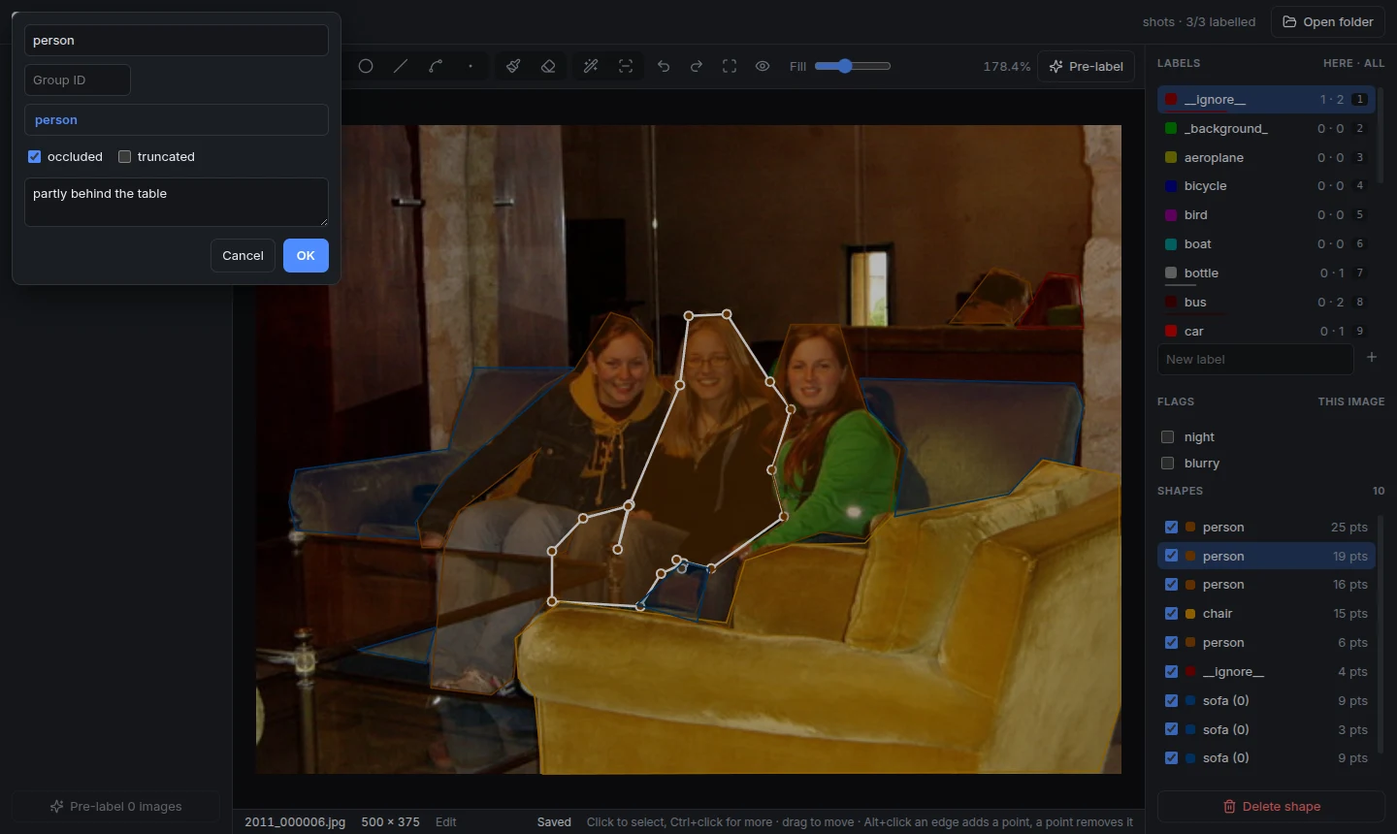
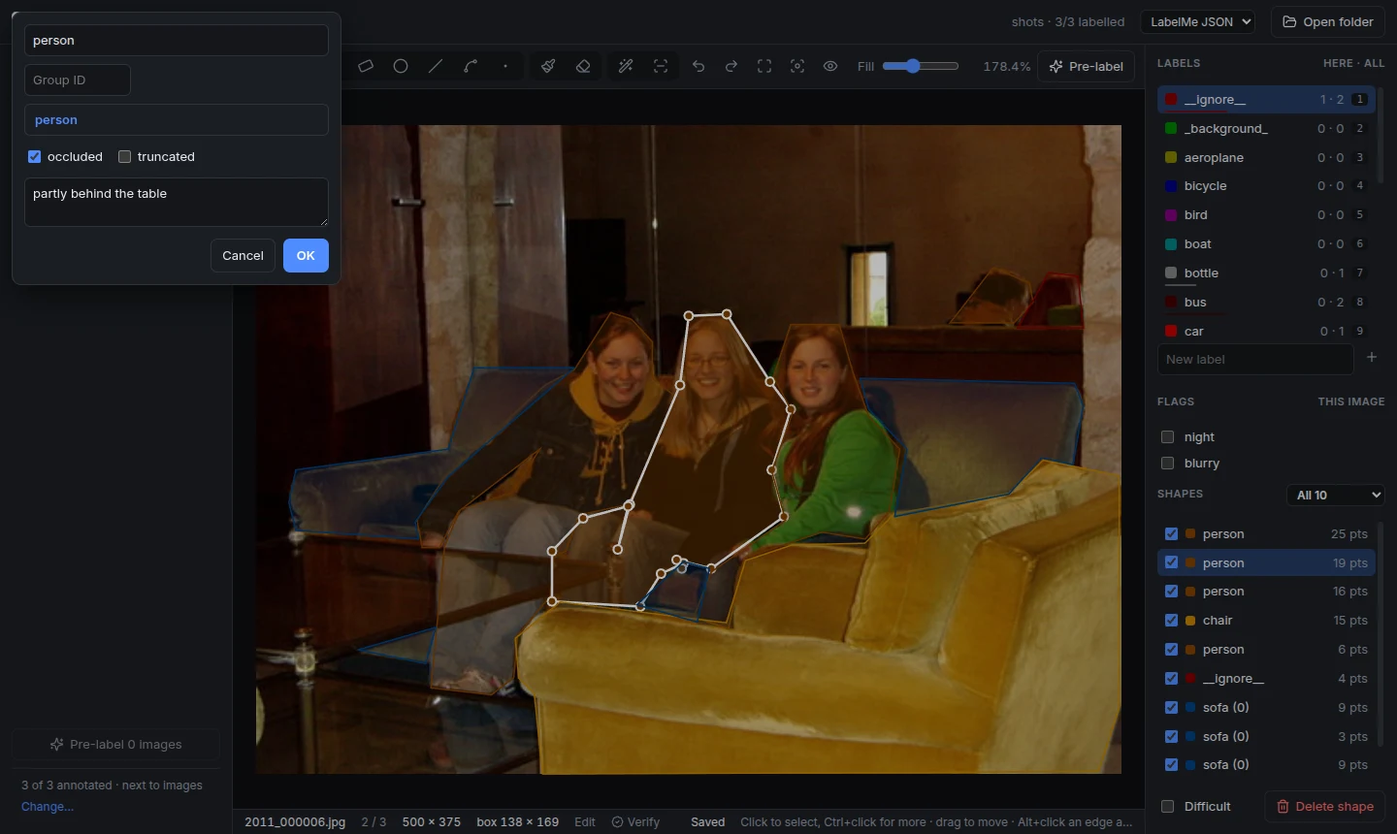
Document labelme 7's tools, AI and settings
The README's screenshots are retaken, and a fourth shows the text prompt.

diff --git a/README.md b/README.md
@@ -4,7 +4,7 @@
 
 <h1 align="center">Seamtag</h1>
 
-<p align="center"><b>Label images in LabelMe, Pascal VOC, YOLO or CreateML format, with labelme's and LabelImg's tools, a brush and eraser, AI segmentation, and review of a model's proposals. For Windows, macOS and Linux.</b></p>
+<p align="center"><b>Label images in LabelMe, Pascal VOC, YOLO or CreateML format, with labelme 7's and LabelImg's tools, a brush and eraser, AI that finds objects from a click, a box or words, and review of a model's proposals. For Windows, macOS and Linux.</b></p>
 
 <p align="center">
   <a href="https://github.com/jakhon37/Seamtag/actions/workflows/ci.yml"><img src="https://github.com/jakhon37/Seamtag/actions/workflows/ci.yml/badge.svg" alt="CI"></a>
@@ -13,19 +13,21 @@
 
 ![Seamtag editing a polygon on one of labelme's example photos](docs/media/label.webp)
 
-Seamtag is the labelling half of [Seamline](https://github.com/jakhon37/Seamline), on its own. It reads and writes the same JSON files as [labelme](https://github.com/wkentaro/labelme), takes the same command line and config keys, and offers the same tools, so a folder labelled in either opens in the other. It does the same for [LabelImg](https://github.com/HumanSignal/labelImg): its Pascal VOC, YOLO and CreateML files, its command line and its tools. Everything runs on your computer: images, labels and AI models never leave it.
+Seamtag is the labelling half of [Seamline](https://github.com/jakhon37/Seamline), on its own. It reads and writes the same JSON files as [labelme](https://github.com/wkentaro/labelme), takes labelme 7's command line and config keys (labelme 5's still work), and offers its tools, so a folder labelled in either opens in the other. It does the same for [LabelImg](https://github.com/HumanSignal/labelImg): its Pascal VOC, YOLO and CreateML files, its command line and its tools. Everything runs on your computer: images, labels and AI models never leave it.
 
 ## What it does
 
-**labelme's tools.** Polygons, rectangles, circles, lines, line strips and points, drawn by labelme's rules: click the first point to close, Shift for a square, lines stop at the image edge. Edit labels with labelme's dialog (completion, flags per label pattern, group ID, description, and `--validatelabel exact`), tick image flags, hide or reorder shapes, copy and paste them between images, merge polygons, add and remove points (Alt+click, or `Ctrl+M` for several along an edge), keep the previous image's shapes, and adjust brightness and contrast. labelme 7's oriented rectangles and locked shapes open and save too.
+**labelme's tools.** Polygons, rectangles, rotated boxes, circles, lines, line strips and points, drawn by labelme's rules: click the first point to close, Shift for a square, lines stop at the image edge unless `canvas.allow_out_of_bounds_points` lets them past. A rotated box takes two clicks along one side and a third for its width; dragging a corner keeps it square, and the handles on its sides turn it. Edit labels with labelme's dialog (completion, flags per label pattern, group ID, description, and `--validate-label exact`), tick image flags, hide or reorder shapes, copy and paste them between images, lock them, merge polygons or masks of one label, add and remove points (Alt+click, Add point to edge on the right-click menu, or `Ctrl+M` for several along an edge), keep the previous image's shapes, and adjust brightness and contrast. `Ctrl`+arrow selects the next shape that way, and Fit to selection keeps the selected shapes in view.
 
 **LabelImg's formats.** Save labels as Pascal VOC (`name.xml`), YOLO (`name.txt`, with the class names in `classes.txt`) or CreateML (`name.json`) instead of LabelMe JSON: the files are LabelImg's to the byte. Pick the format in the top bar or under File → Save format. As in LabelImg, an image keeps the format of the label file it has, and new label files take the format last used. Switching saves the image in the new format and moves its old file to the trash, so each image has one label file; if the image already has labels in the new format, those open instead, and nothing is converted. These formats hold boxes, so other shapes become the box around them, and AI polygon and AI mask draw boxes. Pre-labelling keeps its proposals in LabelMe JSON, so it works in that format.
 
 **LabelImg's tools.** Tap `Space` to mark an image verified: the background turns green, the file list shows it, and Pascal VOC and CreateML files keep it. Mark boxes difficult, as Pascal VOC records it. Boxes are drawn square with Shift or Ctrl held, or always with Draw squares; any of the four corners can be dragged, and the status bar gives the size of the box being drawn or pointed at. Show labels on the boxes, copy the previous image's boxes, read an annotation file onto the image, show one label's boxes at a time, delete an image to the trash, and right-drag a box to copy or move it. Single class mode labels each new box with the label picked in the Labels list, LabelImg's default label; turned off, each box asks. Advanced mode keeps a tool on; turned off, it's LabelImg's beginner mode, one box and then back to editing. Boxes can have their own line and fill colours.
 
-**AI polygon and AI mask.** Click an object and SAM outlines it; Shift+click marks background. The models are the eight labelme 5 offers (EfficientSAM in two sizes, SAM and SAM2 in three), downloaded once from the addresses labelme uses and kept in the same cache, so a model labelme fetched is already here.
+**AI points, AI box and the text prompt.** Click an object, or drag a box around it, and the model outlines it; Shift+click marks background. What it finds becomes the shape picked beside the tool: polygons (one for each part of the object, grouped), a mask, a rectangle, a circle or a rotated box, as in labelme 7. Repeats of one object are dropped, and with `ai.suppress_existing_shape_matches` so are objects already drawn. The text prompt takes words, such as `dog,cat`, and boxes everything they name with YOLO-World, each box labelled with its word and score. The models are labelme's (EfficientSAM in two sizes, SAM2 in three, and YOLO-World), downloaded once from the addresses labelme uses and kept in the same cache, so a model labelme fetched is already here; AI → AI models lists them, with their sizes and licences, and downloads or deletes them. labelme's SAM and SAM 3 aren't among them: their image encoders need blocks of memory larger than Electron allows.
 
 ![SAM2 outlining a bus from two clicks](docs/media/ai.webp)
+
+![YOLO-World boxing the people and the bottle in a photo from the words person,bottle](docs/media/text.webp)
 
 **Pre-label with your own model.** Point it at a segmentation model exported to ONNX, for example from Seamline, and it proposes shapes for every unlabelled image, each with a score. Proposals stay dashed until you accept them: `W` accepts, `S` rejects, `Tab` skips, and the list can put the least certain images first.
 
@@ -65,7 +67,7 @@ npm run dev
 Open a folder of images: labels are saved beside each image as `name.json`, in labelme's format, or in the format picked in the top bar. Images in subfolders are listed too. The command line is labelme's:
 
 ```bash
-seamtag images/ --labels labels.txt --flags night,blurry --labelflags '{person: [occluded]}' -O labels/
+seamtag images/ --labels labels.txt --flags night,blurry --label-flags '{person: [occluded]}' -O labels/
 ```
 
 LabelImg's works too: a folder of images, a file of classes, and a folder for the labels.
@@ -78,10 +80,10 @@ seamtag images/ predefined_classes.txt annotations/
 |---|---|
 | `--labels LIST\|FILE` | Labels to offer, comma separated or one per line in a file |
 | `--flags LIST\|FILE` | Flags for each image |
-| `--labelflags YAML\|FILE` | Flags for shapes whose label matches a pattern |
-| `--validatelabel exact` | Only allow listed labels |
+| `--label-flags YAML\|FILE` | Flags for shapes whose label matches a pattern |
+| `--validate-label exact` | Only allow listed labels |
 | `-O`, `--output DIR\|FILE.json` | Save label files somewhere else |
-| `--nodata`, `--autosave`, `--keep-prev`, `--nosortlabels`, `--epsilon N` | As in labelme |
+| `--with-image-data`, `--no-auto-save`, `--keep-prev`, `--no-sort-labels`, `--epsilon N` | As in labelme 7; labelme 5's `--nodata`, `--autosave`, `--nosortlabels`, `--labelflags` and `--validatelabel` work too |
 | `--config FILE\|YAML` | A config file, such as your `~/.labelmerc`, or YAML overrides; `--config '{label_format: yolo}'` saves new labels as YOLO |
 
 Settings live in `~/.seamtagrc`, which takes labelme's keys, so a `~/.labelmerc` can be copied in as it is. File → Open config file opens it. [docs/config.md](docs/config.md) lists every key, including the shortcuts.
@@ -95,19 +97,20 @@ Settings live in `~/.seamtagrc`, which takes labelme's keys, so a `~/.labelmerc`
 | `1`-`9` | Pick a label, or relabel the selected shapes |
 | `A` `D` | Previous and next image; with `Ctrl+Shift`, copy this image's shapes over |
 | `W` `S` `Tab`, `Shift+W` | Accept, reject or skip an AI proposal; accept all here and move on |
-| `Enter`, double-click | Finish a polygon, line strip or AI shape |
+| `Enter`, `Space`, double-click | Finish a polygon, line strip or AI points shape |
 | `Alt`+click | Add a point on an edge, or remove one |
-| `Ctrl+M`, `Ctrl+Shift+M` | Add several points along an edge; merge selected polygons |
+| `Ctrl+M`, `Ctrl+Shift+M` | Add several points along an edge; merge selected polygons, or masks of one label |
 | `Ctrl+Z`, `Ctrl+Shift+Z` | Undo (a point while drawing), redo |
-| `Space` | A tap marks the image verified, or not; held while dragging, it pans |
+| `Space` | When nothing is being drawn, a tap marks the image verified, or not; held while dragging, it pans |
 | Shift or `Ctrl` while drawing a box, `Ctrl+Shift+R` | A square box; Draw squares on or off |
-| `Ctrl+Shift+P`, `Ctrl+H`, `Ctrl+A`, `Ctrl+Shift+L` | Labels on shapes; hide and show every shape; the label panel |
+| `Ctrl+Shift+L`, `Ctrl+Shift+F`, `Ctrl`+arrow | Lock or unlock shapes; fit the view to the selection; select the next shape that way |
+| `Ctrl+Shift+P`, `Ctrl+H`, `Ctrl+A` | Labels on shapes; hide and show every shape |
 | `Ctrl+E`, `Ctrl+L` | Edit the label; the colour boxes are drawn in |
 | `Ctrl+R`, `Ctrl+Shift+O`, `Ctrl+Shift+Delete` | Change the output folder; read an annotation file onto this image; delete the image |
 | Right drag on a shape | Copy or move it |
 | Wheel, `Space`+drag, `0` | Zoom, pan, fit |
 
-Help → Keyboard shortcuts lists them all. Where LabelImg gives a key another job than labelme does (`W`, `Ctrl+V`, `Ctrl+Y`, `Ctrl+Shift+D`, `Ctrl+Shift+A`), Seamtag keeps labelme's; [docs/config.md](docs/config.md#labelimgs-keys) has the lines that switch to LabelImg's. On a Mac, `Ctrl` is Command.
+Help → Keyboard shortcuts lists them all. Where LabelImg gives a key another job than labelme does (`W`, `Ctrl+V`, `Ctrl+Y`, `Ctrl+Shift+D`, `Ctrl+Shift+A`, `Ctrl+Shift+L`, `Ctrl+Shift+F`), Seamtag keeps labelme's; [docs/config.md](docs/config.md#labelimgs-keys) has the lines that switch to LabelImg's. On a Mac, `Ctrl` is Command.
 
 ### Pre-labelling models
 
@@ -126,7 +129,9 @@ The point is that files go both ways, so it's tested from both sides:
 - Saving a file that labelme 5 wrote gives back the same bytes, including Python's float format and key order.
 - Every `.json` in labelme's examples and test data opens.
 - In CI, labelme 7.9.1 and 5.8.1 load the files this app writes with each drawing tool and turn every shape into pixels with `shapes_to_label`, as labelme's export scripts do. CI has no SAM models; run locally with one, AI mask shapes pass the same check.
-- On the test photo, AI masks are the same as osam's, pixel for pixel, for EfficientSAM and SAM2. That needed Pillow's bilinear resize ported exactly, which a test checks against Pillow.
+- On the test photo, AI masks are the same as osam's, pixel for pixel, for EfficientSAM and SAM2, and YOLO-World finds the same boxes with the same scores as labelme 7.9.1. That needed Pillow's bilinear resize ported exactly, which a test checks against Pillow 13.
+- Unit tests compare what AI results become with what labelme 7.9.1's own code makes of the same test masks: polygons at each detail, circles, rotated boxes, the removal of repeats and of objects already drawn, osam's non-maximum suppression, and CLIP's tokens for text prompts.
+- labelme 7.9.1's whole default config loads with every key known, and labelme 5.8.1's migrates as labelme 7 migrates it.
 - Pascal VOC, YOLO and CreateML files are written as LabelImg writes them, byte for byte: down to Python's rounding of halves, its number format, and LabelImg's rule that saved boxes are whole pixels starting from 1. Unit tests compare them with files LabelImg 1.8.6 and its master branch wrote, and read those files back as LabelImg reads them.
 - In CI, LabelImg 1.8.6 and its master branch read every Pascal VOC, YOLO and CreateML file the app writes, and write the same bytes for the same boxes. The one difference is CreateML's verified mark, which master writes and 1.8.6 leaves out.
 
@@ -134,7 +139,7 @@ labelme's export scripts in [examples/](examples) (to VOC or COCO) work on these
 
 ## How it's built
 
-An Electron app in TypeScript. The main process reads and writes files, builds tile pyramids with libvips (through sharp), and runs ONNX models with onnxruntime, so no Python is needed. The window is React, drawing on a canvas; the LabelMe format lives in one shared module, [`src/shared/labelfile.ts`](src/shared/labelfile.ts), and LabelImg's three in [`src/shared/formats.ts`](src/shared/formats.ts), ported from its Python. Unit tests (Vitest) cover the formats, config, geometry and the resize; end-to-end tests (Playwright) drive the real app on Windows, macOS and Linux, each launch with a home folder and profile of its own. Installers are built by electron-builder on each system.
+An Electron app in TypeScript. The main process reads and writes files, builds tile pyramids with libvips (through sharp), and runs ONNX models with onnxruntime, so no Python is needed. The window is React, drawing on a canvas; the LabelMe format lives in one shared module, [`src/shared/labelfile.ts`](src/shared/labelfile.ts), and LabelImg's three in [`src/shared/formats.ts`](src/shared/formats.ts), ported from its Python. labelme 7's AI pipeline (masks to shapes, the removal of repeats, non-maximum suppression, CLIP's tokenizer) is ported in [`src/main`](src/main) beside the models. Unit tests (Vitest) cover the formats, config, geometry, the AI pipeline and the resize; end-to-end tests (Playwright) drive the real app on Windows, macOS and Linux, each launch with a home folder and profile of its own. Installers are built by electron-builder on each system.
 
 ## History
 
@@ -142,6 +147,6 @@ This repository continues [LabelMeV2](https://github.com/jakhon37/LabelMeV2), a 
 
 ## License
 
-GPL-3.0, as labelme. The Pascal VOC, YOLO and CreateML code is ported from LabelImg, under its MIT licence, whose notice is kept in [`src/shared/formats.ts`](src/shared/formats.ts). The AI models are downloaded from their authors' releases under their own licences: SAM, SAM2 and EfficientSAM are Apache-2.0.
+GPL-3.0, as labelme. The Pascal VOC, YOLO and CreateML code is ported from LabelImg, under its MIT licence, whose notice is kept in [`src/shared/formats.ts`](src/shared/formats.ts). CLIP's tokenizer vocabulary, in [`resources/clip`](resources/clip), is OpenAI's, under the MIT licence beside it. The AI models are downloaded from their authors' releases under their own licences: SAM2 and EfficientSAM are Apache-2.0, YOLO-World is GPL-3.0.
 
 Thanks to Kentaro Wada for [labelme](https://github.com/wkentaro/labelme) and [osam](https://github.com/wkentaro/osam), and to Tzutalin and LabelImg's contributors for [LabelImg](https://github.com/HumanSignal/labelImg).

diff --git a/docs/config.md b/docs/config.md
@@ -1,6 +1,6 @@
 # Config
 
-Seamtag reads `~/.seamtagrc`, a YAML file it creates on first run. Put in it only what you want to change. It takes labelme's keys, so the lines of a `~/.labelmerc` work as they are; `seamtag --config ~/.labelmerc` reads that file instead, and `--config '{auto_save: false}'` passes overrides inline. Keys this version doesn't know are reported and skipped, so a newer labelme's file still opens. The defaults are in [`src/shared/config.ts`](../src/shared/config.ts).
+Seamtag reads `~/.seamtagrc`, a YAML file it creates on first run. Put in it only what you want to change. It takes labelme 7's keys, so the lines of a `~/.labelmerc` work as they are, and migrates labelme 5's as labelme 7 does (`store_data` becomes `with_image_data`, `shape_color: manual` and `label_colors` become `shape_color.by_label`, `edit_polygon` becomes `edit_shape`, and so on); `seamtag --config ~/.labelmerc` reads that file instead, and `--config '{auto_save: false}'` passes overrides inline. Keys this version doesn't know are reported and skipped, so a newer labelme's file still opens. The defaults are in [`src/shared/config.ts`](../src/shared/config.ts).
 
 ```yaml
 labels: [cat, dog]
@@ -18,7 +18,7 @@ shortcuts:
 |---|---|---|
 | `auto_save` | `true` | Save a moment after each change. When off, leaving an image asks. |
 | `display_label_popup` | `false` | Ask for a label after every shape, as labelme does. When off, the label picked in the Labels list (or with 1-9) is used, and the dialog opens only when none is picked. |
-| `store_data` | `false` | Put the image in the label file as base64 (`imageData`). |
+| `with_image_data` | `false` | Put the image in the label file as base64 (`imageData`). labelme 5 called it `store_data`. |
 | `keep_prev` | `false` | An image with no labels starts with the previous image's shapes. |
 | `keep_prev_scale` | `false` | Keep the zoom when moving between images. |
 | `keep_prev_brightness_contrast` | `false` | Keep brightness and contrast when moving between images. |
@@ -28,12 +28,14 @@ shortcuts:
 | `file_search` | `null` | Text the file list starts filtered by. It's a regular expression, as in labelme. |
 | `sort_labels` | `true` | Sort labels in the label dialog. |
 | `validate_label` | `null` | `exact`: only labels from `labels` are allowed. |
-| `shape_color` | `auto` | `auto`: labelme's colours by place in the label list. `manual`: from `label_colors`. `null`: `default_shape_color`. A Seamline project's own colours come before `auto`. |
-| `shift_auto_shape_color` | `0` | Start the automatic colours further along. |
-| `label_colors` | `null` | `{label: [r, g, b]}` for `manual`. |
-| `default_shape_color` | `[0, 255, 0]` | |
+| `shape_color.mode` | `auto` | `auto`: labelme's colours by place in the label list. `uniform`: `shape_color.uniform.color` for all. `by_label`: from `shape_color.by_label.colors`, `{label: [r, g, b]}`, else `shape_color.by_label.fallback`. A Seamline project's own colours come before `auto` and `uniform`. |
+| `shape_color.auto.shift` | `0` | Start the automatic colours further along. |
 | `shape.point_size` | `8` | Size of point shapes. |
-| `ai.default` | `Sam2 (balanced)` | The model for AI polygon and AI mask, by labelme's name for it. |
+| `shape.show_labels` | `false` | Draw each shape's label on it at first, as View → Display labels does. |
+| `mask_polygonization.detail` | `60` | From 0 to 100: how closely polygons from AI masks follow them, and how small a part of a mask still gets its own polygon. |
+| `ai.default` | `Sam2 (balanced)` | The model for AI points and AI box, by labelme's name for it. labelme's `Sam (…)` models can't run in this app, so they get SAM2 (balanced). |
+| `ai.text_model` | `yoloworld:latest` | The model for the text prompt. labelme also takes `sam3:latest`; SAM 3 can't run in this app, so YOLO-World is used. |
+| `ai.suppress_existing_shape_matches` | `false` | AI points and AI box leave out objects already drawn, and select those shapes instead. |
 | `flag_dock.show`, `label_dock.show`, `shape_dock.show`, `file_dock.show` | `true` | Which side lists show at first. |
 | `show_label_text_field` | `true` | Show the text box in the label dialog. |
 | `label_completion` | `startswith` | Or `contains`. |
@@ -45,10 +47,11 @@ shortcuts:
 | `canvas.fill_drawing` | `false` | Fill a polygon while it's drawn. |
 | `canvas.double_click` | `close` | `close`: a double-click finishes a polygon. `null`: it doesn't. |
 | `canvas.num_backups` | `200` | Undo steps kept for each image. |
-| `canvas.crosshair.<mode>` | rectangle only | Show a crosshair while drawing with that tool. |
+| `canvas.allow_out_of_bounds_points` | `false` | Points may be placed past the image's edge. |
+| `canvas.crosshair.<tool>` | rectangle and AI box | Show a crosshair while drawing with that tool: `polygon`, `rectangle`, `oriented_rectangle`, `circle`, `line`, `point`, `linestrip`, `ai_points_to_shape`, `ai_box_to_shape`. |
 | `dark_mode` | `true` | |
 
-`fit_to_content`, `logger_level` and the rest of `performance` are accepted and have no effect here: the window lays itself out, and large images always go through tile pyramids.
+`fit_to_content`, `language`, `color_theme` and the rest of `performance` are accepted and have no effect here: the window lays itself out, is in English with its own Dark mode switch, and large images always go through tile pyramids. A `logger_level` key is dropped on load, as labelme 7 drops it.
 
 ## Seamtag's own keys
 
@@ -69,17 +72,18 @@ Written as Qt writes them, a key or a list of keys, `null` for none. As in Qt, `
 | `save`, `save_as`, `save_to`, `delete_file` | `Ctrl+S`, `Ctrl+Shift+S`, `Ctrl+R`, `Ctrl+Delete` |
 | `open_next`, `open_prev` | `[D, Ctrl+Shift+D]`, `[A, Ctrl+Shift+A]` |
 | `zoom_in`, `zoom_out`, `zoom_to_original` | `[Ctrl++, Ctrl+=]`, `Ctrl+-`, `Ctrl+0` |
-| `fit_window`, `fit_width` | `[Ctrl+F, 0]`, `Ctrl+Shift+F` |
-| `create_polygon`, `create_rectangle` | `[Ctrl+Shift+V, P]`, `[Ctrl+Shift+B, R]` |
+| `fit_window`, `fit_selection` | `[Ctrl+F, 0]`, `Ctrl+Shift+F` |
+| `create_polygon`, `create_rectangle`, `create_oriented_rectangle` | `[Ctrl+Shift+V, P]`, `[Ctrl+Shift+B, R]`, none |
 | `create_circle`, `create_line`, `create_point`, `create_linestrip` | none |
-| `create_ai_polygon`, `create_ai_mask` | none |
+| `create_ai_points_to_shape`, `create_ai_box_to_shape` | none |
 | `create_brush`, `create_eraser` | `B`, `E` |
-| `edit_polygon`, `edit_label` | `[Ctrl+Shift+C, V, Ctrl+J]`, `[Ctrl+Shift+X, Ctrl+E]` |
-| `delete_polygon`, `duplicate_polygon`, `copy_polygon`, `paste_polygon` | `Delete`, `Ctrl+D`, `Ctrl+C`, `Ctrl+V` |
+| `edit_shape`, `edit_label`, `lock_shape` | `[Ctrl+Shift+C, V, Ctrl+J]`, `[Ctrl+Shift+X, Ctrl+E]`, `Ctrl+Shift+L` |
+| `delete_shape`, `duplicate_shape`, `copy_shape`, `paste_shape` | `Delete`, `Ctrl+D`, `Ctrl+C`, `Ctrl+V` |
 | `undo`, `redo`, `undo_last_point` | `Ctrl+Z`, `[Ctrl+Shift+Z, Ctrl+Y]`, `Ctrl+Z` |
-| `remove_selected_point`, `add_multiple_points`, `merge_polygons` | `[Meta+H, Backspace]`, `Ctrl+M`, `Ctrl+Shift+M` |
-| `toggle_keep_prev_mode` | `Ctrl+P` |
-| `show_all_polygons`, `hide_all_polygons`, `toggle_all_polygons` | `Ctrl+A`, `Ctrl+H`, `F` |
+| `remove_selected_point`, `add_multiple_points`, `merge_shapes` | `[Meta+H, Backspace]`, `Ctrl+M`, `Ctrl+Shift+M` |
+| `toggle_keep_prev_mode` | none, as in labelme 7 |
+| `show_all_shapes`, `hide_all_shapes`, `toggle_all_shapes` | `Ctrl+A`, `Ctrl+H`, `F` |
+| `select_shape_up`, `select_shape_down`, `select_shape_left`, `select_shape_right` | `Ctrl+Up`, `Ctrl+Down`, `Ctrl+Left`, `Ctrl+Right` |
 | `review_accept`, `review_accept_all`, `review_reject`, `review_skip` | `W`, `Shift+W`, `S`, `Tab` |
 | `brush_smaller`, `brush_larger` | `[`, `]` |
 
@@ -90,15 +94,16 @@ LabelImg's commands:
 | `verify_image`, `toggle_difficult` | `Space`, none. Space is a tap: held while dragging, it pans. |
 | `open_annotation`, `copy_previous_shapes`, `delete_image` | `Ctrl+Shift+O`, none, `Ctrl+Shift+Delete` |
 | `change_format` | none. Each press moves to the next format, as LabelImg's format button does. |
-| `draw_squares`, `display_labels`, `toggle_label_panel` | `Ctrl+Shift+R`, `Ctrl+Shift+P`, `Ctrl+Shift+L` |
+| `draw_squares`, `display_labels` | `Ctrl+Shift+R`, `Ctrl+Shift+P` |
+| `toggle_label_panel`, `fit_width` | none: their keys, `Ctrl+Shift+L` and `Ctrl+Shift+F`, are labelme 7's Lock Shapes and Fit to Selection |
 | `single_class_mode`, `advanced_mode` | none |
 | `box_line_color`, `shape_line_color`, `shape_fill_color` | `Ctrl+L`, none, none |
 
-`1` to `9` pick a label, arrow keys move the selection (Shift for 10 pixels), and `Escape` cancels what's being drawn. On a Mac, macOS keeps ⌘H and ⌘A for itself, so there `F` shows and hides shapes.
+`1` to `9` pick a label, arrow keys move the selection (Shift for 10 pixels), `Space` finishes a polygon, line strip or AI points shape being drawn, and `Escape` cancels what's being drawn. On a Mac, macOS keeps ⌘H and ⌘A for itself, so there `F` shows and hides shapes.
 
 ## LabelImg's keys
 
-Where LabelImg and labelme give a key different jobs, Seamtag keeps labelme's: `W` accepts an AI proposal, `Ctrl+V` pastes, `Ctrl+Y` redoes, `Ctrl+Shift+D` and `Ctrl+Shift+A` copy the shapes over to the next or previous image, and `Ctrl+=` zooms in. These lines in `~/.seamtagrc` give those keys LabelImg's jobs and move the others aside:
+Where LabelImg and labelme give a key different jobs, Seamtag keeps labelme's: `W` accepts an AI proposal, `Ctrl+V` pastes, `Ctrl+Y` redoes, `Ctrl+Shift+D` and `Ctrl+Shift+A` copy the shapes over to the next or previous image, `Ctrl+=` zooms in, `Ctrl+Shift+L` locks shapes and `Ctrl+Shift+F` fits the view to the selection. These lines in `~/.seamtagrc` give those keys LabelImg's jobs and move the others aside:
 
 ```yaml
 # LabelImg's keys
@@ -107,7 +112,7 @@ shortcuts:
   review_accept: Y
   review_accept_all: Shift+Y
   copy_previous_shapes: Ctrl+V
-  paste_polygon: Ctrl+Alt+V
+  paste_shape: Ctrl+Alt+V
   change_format: Ctrl+Y
   redo: Ctrl+Shift+Z
   delete_image: Ctrl+Shift+D
@@ -116,6 +121,10 @@ shortcuts:
   open_prev: A
   zoom_in: Ctrl++
   zoom_to_original: [Ctrl+0, Ctrl+=]
+  toggle_label_panel: Ctrl+Shift+L
+  lock_shape: Ctrl+Alt+L
+  fit_width: Ctrl+Shift+F
+  fit_selection: Ctrl+Alt+F
 ```
 
 LabelImg's `Ctrl+Shift+S` for Single Class Mode stays Save As, as LabelImg's own Save As has it too.

diff --git a/CHANGELOG.md b/CHANGELOG.md
@@ -7,8 +7,29 @@ and this project adheres to [Semantic Versioning](https://semver.org/spec/v2.0.0
 
 ## [Unreleased]
 
+labelme 7's tools, AI and settings.
+
+### Added
+- labelme 7's AI tools: AI points (clicks) and AI box (a box), each making a polygon, mask, rectangle, circle or rotated box of what the model finds. Polygons follow every part of the mask, grouped by one group ID, as `mask_polygonization.detail` sets; repeats of one object are dropped, and with `ai.suppress_existing_shape_matches` so are objects already drawn, whose shapes are selected instead.
+- labelme 7's AI text prompt: words such as `dog,cat` find and box everything they name with YOLO-World, each box labelled with its word, with its score in the description, and with score and overlap thresholds to set. Boxes over shapes of that label already drawn aren't made again. labelme also offers SAM 3 there; it isn't here, as its image encoder needs larger blocks of memory than Electron's allocator gives.
+- AI → AI models: every model with what it takes, its size and licence; download, cancel or delete it. The files stay in osam's cache, which labelme shares.
+- Rotated boxes (labelme 7's oriented rectangles) are drawn with three clicks, reshaped from a corner with the opposite one fixed, and turned by handles on their sides; an arrow shows the first side.
+- labelme 7's Lock Shapes (`Ctrl+Shift+L`), Fit to Selection (`Ctrl+Shift+F`), selecting the next shape that way with `Ctrl`+arrow, Add point to edge on the right-click menu, and merging masks of one label.
+- `Space` finishes a polygon, line strip or AI points shape being drawn, as in labelme 5.9.
+- labelme 7's command line (`--with-image-data`, `--no-auto-save`, `--no-sort-labels`, `--label-flags`, `--validate-label`) beside labelme 5's.
+- labelme 7's config keys: `with_image_data`, `shape_color` with its `auto`, `uniform` and `by_label` modes, `shape.show_labels`, `mask_polygonization.detail`, `ai.text_model`, `ai.suppress_existing_shape_matches`, `canvas.allow_out_of_bounds_points` and the new crosshair and shortcut names. Files written for labelme 5 are migrated as labelme 7 migrates them.
+- A footer under the image list: how many images are annotated, and whether their label files are next to them or in an output folder, with Change… and Next to images.
+
+### Changed
+- AI polygon and AI mask are AI points with a polygon or mask chosen; their shortcut keys carry over.
+- Hiding and showing shapes is undone like any change, and applies to every selected shape.
+- The shape list shows each shape's flags after its label, and labels drawn on shapes show their group ID, as in labelme 7.
+- `Ctrl+Shift+L` locks shapes and `Ctrl+Shift+F` fits the selection, as in labelme 7; LabelImg's label panel and Fit Width have no key, and docs/config.md has the lines that give them back theirs. Keep Previous Annotation has no key, as in labelme 7.6.
+
 ### Fixed
 - The question to download a model, asked on the first click of an AI tool, no longer locks the mouse on Linux (X11), where no window could be clicked until the question was closed from the keyboard. Questions and file dialogs now open once the mouse button is up.
+- SAM, in all three sizes, is no longer offered for AI points and AI box: inside Electron its image encoder asks for a block of memory (about 800 MB) larger than Electron's allocator gives, and choosing it closed the app. A config or an earlier choice that names it gets SAM2 (balanced).
+- The image an AI model sees is resized exactly as Pillow 13 resizes it, which runs the vertical pass first only when the height shrinks more than twice as much as the width. Some sizes came out one level apart, which changed YOLO-World's scores.
 
 ## [3.1.0] - 2026-11-10
 
